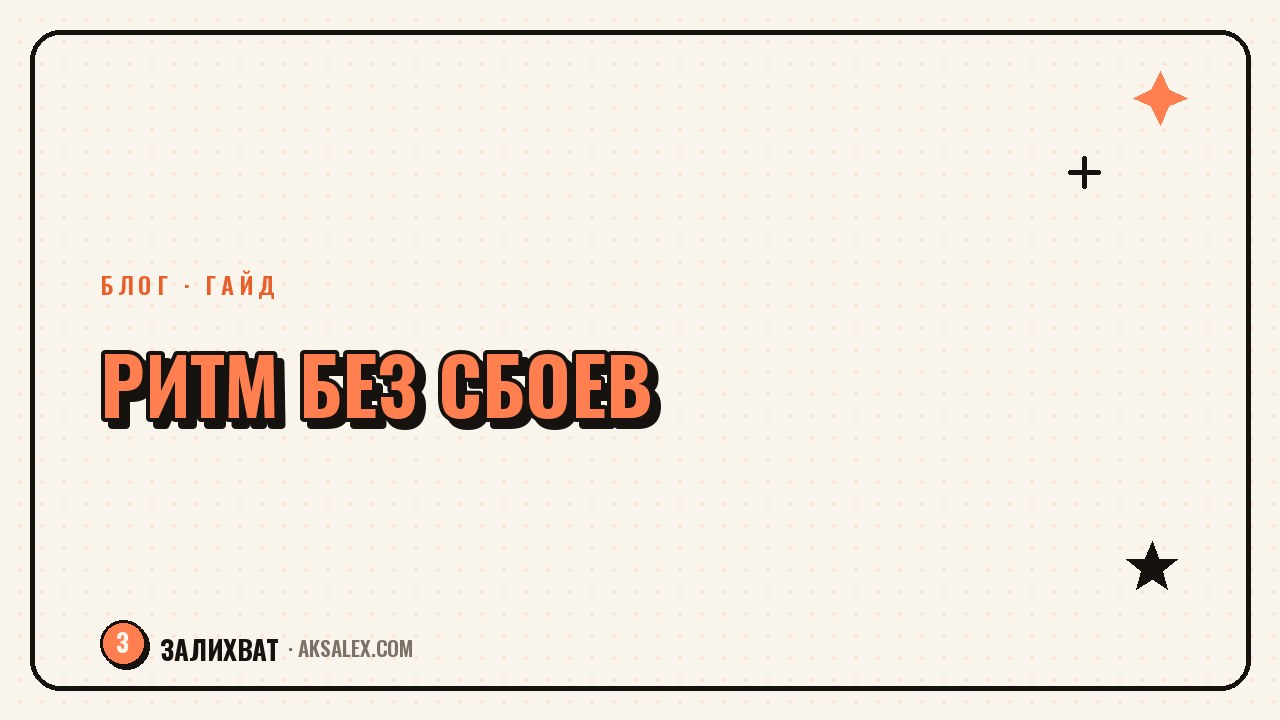
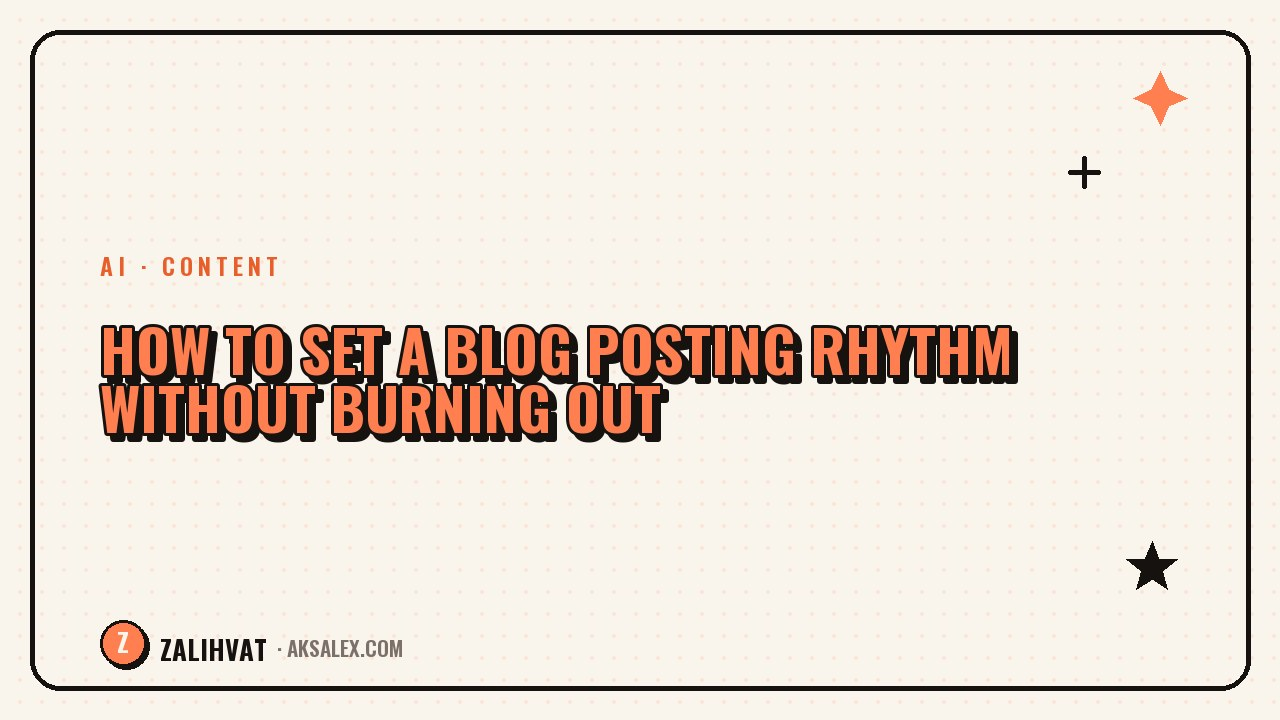
EN-обложки: перегенерил covers с английскими заголовками и брендом ZALIHVAT, чиню img src в EN-индексе; cover.py получил lang

Changed region(s): [[0.0625, 0.3361, 0.8125, 0.6111], [0.125, 0.8861, 0.3438, 0.9167]]

diff --git a/site/en/blog/index.html b/site/en/blog/index.html
@@ -113,7 +113,7 @@
 
   <div class="posts">
     <a class="post" href="/en/blog/kak-sdelat-seriyu-rolikov-na-odnu-temu/">
-      <img src="/blog/kak-sdelat-seriyu-rolikov-na-odnu-temu/cover.jpg" alt="How to make a series of videos on one topic">
+      <img src="/en/blog/kak-sdelat-seriyu-rolikov-na-odnu-temu/cover.jpg" alt="How to make a series of videos on one topic">
       <div class="pbody">
         <div class="pdate">September 5, 2026</div>
         <h2>How to make a series of videos on one topic</h2>
@@ -123,7 +123,7 @@
     </a>
 
     <a class="post" href="/en/blog/montazh-reels-na-telefone-prilozheniya/">
-      <img src="/blog/montazh-reels-na-telefone-prilozheniya/cover.jpg" alt="Editing Reels on a phone: apps and combos">
+      <img src="/en/blog/montazh-reels-na-telefone-prilozheniya/cover.jpg" alt="Editing Reels on a phone: apps and combos">
       <div class="pbody">
         <div class="pdate">September 5, 2026</div>
         <h2>Editing Reels on a phone: apps and combos</h2>
@@ -133,7 +133,7 @@
     </a>
 
     <a class="post" href="/en/blog/kak-nastroit-regulyarnost-i-ne-vygoret/">
-      <img src="/blog/kak-nastroit-regulyarnost-i-ne-vygoret/cover.jpg" alt="How to set up consistency in your blog without burning out">
+      <img src="/en/blog/kak-nastroit-regulyarnost-i-ne-vygoret/cover.jpg" alt="How to set up consistency in your blog without burning out">
       <div class="pbody">
         <div class="pdate">September 5, 2026</div>
         <h2>How to set up consistency in your blog without burning out</h2>
@@ -143,7 +143,7 @@
     </a>
 
     <a class="post" href="/en/blog/neyroseti-dlya-idey-kontenta-na-mesyac/">
-      <img src="/blog/neyroseti-dlya-idey-kontenta-na-mesyac/cover.jpg" alt="AI for a month's worth of content ideas">
+      <img src="/en/blog/neyroseti-dlya-idey-kontenta-na-mesyac/cover.jpg" alt="AI for a month's worth of content ideas">
       <div class="pbody">
         <div class="pdate">September 5, 2026</div>
         <h2>AI for a month's worth of content ideas</h2>
@@ -153,7 +153,7 @@
     </a>
 
     <a class="post" href="/en/blog/kak-pereupakovat-rolik-v-5-formatov/">
-      <img src="/blog/kak-pereupakovat-rolik-v-5-formatov/cover.jpg" alt="How to repackage one video into 5 formats">
+      <img src="/en/blog/kak-pereupakovat-rolik-v-5-formatov/cover.jpg" alt="How to repackage one video into 5 formats">
       <div class="pbody">
         <div class="pdate">September 5, 2026</div>
         <h2>How to repackage one video into 5 formats</h2>
@@ -163,7 +163,7 @@
     </a>
 
     <a class="post" href="/en/blog/storitelling-v-reels/">
-      <img src="/blog/storitelling-v-reels/cover.jpg" alt="Storytelling in Reels: how to hold attention">
+      <img src="/en/blog/storitelling-v-reels/cover.jpg" alt="Storytelling in Reels: how to hold attention">
       <div class="pbody">
         <div class="pdate">September 4, 2026</div>
         <h2>Storytelling in Reels: how to hold attention</h2>
@@ -173,7 +173,7 @@
     </a>
 
     <a class="post" href="/en/blog/kak-nahodit-trendy-cherez-neyroseti/">
-      <img src="/blog/kak-nahodit-trendy-cherez-neyroseti/cover.jpg" alt="How to find content trends using AI">
+      <img src="/en/blog/kak-nahodit-trendy-cherez-neyroseti/cover.jpg" alt="How to find content trends using AI">
       <div class="pbody">
         <div class="pdate">September 4, 2026</div>
         <h2>How to find content trends using AI</h2>
@@ -183,7 +183,7 @@
     </a>
 
     <a class="post" href="/en/blog/oshibki-novichkov-v-bloge/">
-      <img src="/blog/oshibki-novichkov-v-bloge/cover.jpg" alt="Beginner blogging mistakes and how to avoid them">
+      <img src="/en/blog/oshibki-novichkov-v-bloge/cover.jpg" alt="Beginner blogging mistakes and how to avoid them">
       <div class="pbody">
         <div class="pdate">September 4, 2026</div>
         <h2>Beginner blogging mistakes and how to avoid them</h2>
@@ -193,7 +193,7 @@
     </a>
 
     <a class="post" href="/en/blog/kak-vesti-blog-bez-lica-s-ii/">
-      <img src="/blog/kak-vesti-blog-bez-lica-s-ii/cover.jpg" alt="How to run a faceless blog with AI">
+      <img src="/en/blog/kak-vesti-blog-bez-lica-s-ii/cover.jpg" alt="How to run a faceless blog with AI">
       <div class="pbody">
         <div class="pdate">September 4, 2026</div>
         <h2>How to run a faceless blog with AI</h2>
@@ -203,7 +203,7 @@
     </a>
 
     <a class="post" href="/en/blog/neyroseti-dlya-oblozhek-i-prevyu/">
-      <img src="/blog/neyroseti-dlya-oblozhek-i-prevyu/cover.jpg" alt="AI for blog covers and previews">
+      <img src="/en/blog/neyroseti-dlya-oblozhek-i-prevyu/cover.jpg" alt="AI for blog covers and previews">
       <div class="pbody">
         <div class="pdate">September 4, 2026</div>
         <h2>AI for blog covers and previews</h2>
@@ -213,7 +213,7 @@
     </a>
 
     <a class="post" href="/en/blog/kak-sdelat-scenariy-reels-za-5-minut/">
-      <img src="/blog/kak-sdelat-scenariy-reels-za-5-minut/cover.jpg" alt="How to write a Reels script in 5 minutes">
+      <img src="/en/blog/kak-sdelat-scenariy-reels-za-5-minut/cover.jpg" alt="How to write a Reels script in 5 minutes">
       <div class="pbody">
         <div class="pdate">September 3, 2026</div>
         <h2>How to write a Reels script in 5 minutes</h2>
@@ -223,7 +223,7 @@
     </a>
 
     <a class="post" href="/en/blog/golosovye-neyroseti-dlya-ozvuchki-rolikov/">
-      <img src="/blog/golosovye-neyroseti-dlya-ozvuchki-rolikov/cover.jpg" alt="AI voice tools for video voiceovers">
+      <img src="/en/blog/golosovye-neyroseti-dlya-ozvuchki-rolikov/cover.jpg" alt="AI voice tools for video voiceovers">
       <div class="pbody">
         <div class="pdate">September 3, 2026</div>
         <h2>AI voice tools for video voiceovers</h2>
@@ -233,7 +233,7 @@
     </a>
 
     <a class="post" href="/en/blog/kak-pisat-virusnye-zagolovki-s-neyrosetyu/">
-      <img src="/blog/kak-pisat-virusnye-zagolovki-s-neyrosetyu/cover.jpg" alt="How to write viral headlines with AI">
+      <img src="/en/blog/kak-pisat-virusnye-zagolovki-s-neyrosetyu/cover.jpg" alt="How to write viral headlines with AI">
       <div class="pbody">
         <div class="pdate">September 3, 2026</div>
         <h2>How to write viral headlines with AI</h2>
@@ -243,7 +243,7 @@
     </a>
 
     <a class="post" href="/en/blog/ii-avatary-dlya-bloga/">
-      <img src="/blog/ii-avatary-dlya-bloga/cover.jpg" alt="AI avatars for your blog: overview and how to use them">
+      <img src="/en/blog/ii-avatary-dlya-bloga/cover.jpg" alt="AI avatars for your blog: overview and how to use them">
       <div class="pbody">
         <div class="pdate">September 3, 2026</div>
         <h2>AI avatars for your blog: overview and how to use them</h2>
@@ -253,7 +253,7 @@
     </a>
 
     <a class="post" href="/en/blog/kak-vyrasti-v-ohvatah-s-neyrosetyami/">
-      <img src="/blog/kak-vyrasti-v-ohvatah-s-neyrosetyami/cover.jpg" alt="How to grow your reach with AI">
+      <img src="/en/blog/kak-vyrasti-v-ohvatah-s-neyrosetyami/cover.jpg" alt="How to grow your reach with AI">
       <div class="pbody">
         <div class="pdate">September 3, 2026</div>
         <h2>How to grow your reach with AI</h2>
@@ -263,7 +263,7 @@
     </a>
 
     <a class="post" href="/en/blog/prompty-dlya-scenariev-reels/">
-      <img src="/blog/prompty-dlya-scenariev-reels/cover.jpg" alt="Prompts for Reels scripts: ready-made formulas">
+      <img src="/en/blog/prompty-dlya-scenariev-reels/cover.jpg" alt="Prompts for Reels scripts: ready-made formulas">
       <div class="pbody">
         <div class="pdate">September 2, 2026</div>
         <h2>Prompts for Reels scripts: ready-made formulas</h2>
@@ -273,7 +273,7 @@
     </a>
 
     <a class="post" href="/en/blog/kak-avtomatizirovat-posting-v-socsetyah/">
-      <img src="/blog/kak-avtomatizirovat-posting-v-socsetyah/cover.jpg" alt="How to automate posting on social media">
+      <img src="/en/blog/kak-avtomatizirovat-posting-v-socsetyah/cover.jpg" alt="How to automate posting on social media">
       <div class="pbody">
         <div class="pdate">September 2, 2026</div>
         <h2>How to automate posting on social media</h2>
@@ -283,7 +283,7 @@
     </a>
 
     <a class="post" href="/en/blog/neyroseti-dlya-montazha-video/">
-      <img src="/blog/neyroseti-dlya-montazha-video/cover.jpg" alt="AI tools for video editing: what beginners should pick">
+      <img src="/en/blog/neyroseti-dlya-montazha-video/cover.jpg" alt="AI tools for video editing: what beginners should pick">
       <div class="pbody">
         <div class="pdate">September 2, 2026</div>
         <h2>AI tools for video editing: what beginners should pick</h2>
@@ -293,7 +293,7 @@
     </a>
 
     <a class="post" href="/en/blog/kak-pridumat-huk-dlya-reels/">
-      <img src="/blog/kak-pridumat-huk-dlya-reels/cover.jpg" alt="How to come up with a hook for Reels that grabs attention">
+      <img src="/en/blog/kak-pridumat-huk-dlya-reels/cover.jpg" alt="How to come up with a hook for Reels that grabs attention">
       <div class="pbody">
         <div class="pdate">September 2, 2026</div>
         <h2>How to come up with a hook for Reels that grabs attention</h2>
@@ -303,7 +303,7 @@
     </a>
 
     <a class="post" href="/en/blog/kontent-plan-na-mesyac-s-ii/">
-      <img src="/blog/kontent-plan-na-mesyac-s-ii/cover.jpg" alt="A month's content plan in one hour with AI">
+      <img src="/en/blog/kontent-plan-na-mesyac-s-ii/cover.jpg" alt="A month's content plan in one hour with AI">
       <div class="pbody">
         <div class="pdate">September 2, 2026</div>
         <h2>A month's content plan in one hour with AI</h2>
@@ -313,7 +313,7 @@
     </a>
 
     <a class="post" href="/en/blog/kak-vybrat-nishu-dlya-bloga-s-neyrosetyami/">
-      <img src="/blog/kak-vybrat-nishu-dlya-bloga-s-neyrosetyami/cover.jpg" alt="How to choose a blog niche with AI">
+      <img src="/en/blog/kak-vybrat-nishu-dlya-bloga-s-neyrosetyami/cover.jpg" alt="How to choose a blog niche with AI">
       <div class="pbody">
         <div class="pdate">September 2, 2026</div>
         <h2>How to choose a blog niche with AI</h2>
@@ -324,7 +324,7 @@
 
 
     <a class="post" href="/en/blog/prompty-dlya-kontenta/">
-      <img src="/blog/prompty-dlya-kontenta/cover.jpg" alt="Prompts for content: how to write requests to AI">
+      <img src="/en/blog/prompty-dlya-kontenta/cover.jpg" alt="Prompts for content: how to write requests to AI">
       <div class="pbody">
         <div class="pdate">September 1, 2026</div>
         <h2>Prompts for content: how to write requests to AI</h2>
@@ -334,7 +334,7 @@
     </a>
 
     <a class="post" href="/en/blog/idei-dlya-reels-s-neyrosetyami/">
-      <img src="/blog/idei-dlya-reels-s-neyrosetyami/cover.jpg" alt="How to come up with Reels ideas using AI">
+      <img src="/en/blog/idei-dlya-reels-s-neyrosetyami/cover.jpg" alt="How to come up with Reels ideas using AI">
       <div class="pbody">
         <div class="pdate">September 1, 2026</div>
         <h2>How to come up with Reels ideas using AI</h2>
@@ -344,7 +344,7 @@
     </a>
 
     <a class="post" href="/en/blog/kak-vesti-blog-s-neyrosetyami/">
-      <img src="/blog/kak-vesti-blog-s-neyrosetyami/cover.jpg" alt="How to run a blog with AI">
+      <img src="/en/blog/kak-vesti-blog-s-neyrosetyami/cover.jpg" alt="How to run a blog with AI">
       <div class="pbody">
         <div class="pdate">September 1, 2026</div>
         <h2>How to run a blog with AI: a step-by-step guide</h2>

diff --git a/autopilot/cover.py b/autopilot/cover.py
@@ -63,9 +63,11 @@ def _wrap(draw, text, font, maxw):
         lines.append(cur)
     return lines
 
-def make_cover(title, tag, out_jpg):
+def make_cover(title, tag, out_jpg, lang="ru"):
     title = (title or "").upper().strip()
-    tag = (tag or "Нейросети · блог").upper().strip()
+    tag = (tag or ("AI · BLOG" if lang == "en" else "Нейросети · блог")).upper().strip()
+    brand = "ZALIHVAT" if lang == "en" else "ЗАЛИХВАТ"
+    glyph = "Z" if lang == "en" else "З"
     img = Image.new("RGB", (W, H), PAPER)
     d = ImageDraw.Draw(img)
 
@@ -120,13 +122,13 @@ def make_cover(title, tag, out_jpg):
     d.ellipse([bx + 3, by + 3, bx + 49, by + 49], fill=INK)         # тень
     d.ellipse([bx, by, bx + 46, by + 46], fill=CORAL, outline=INK, width=3)
     zf = _font(26, 700)
-    zb = d.textbbox((0, 0), "З", font=zf)
+    zb = d.textbbox((0, 0), glyph, font=zf)
     d.text((bx + 23 - (zb[2] - zb[0]) / 2, by + 23 - (zb[3] - zb[1]) / 2 - zb[1]),
-           "З", font=zf, fill=PAPER)
+           glyph, font=zf, fill=PAPER)
     nf = _font(27, 700)
     nx = bx + 60
-    d.text((nx, by + 8), "ЗАЛИХВАТ", font=nf, fill=INK)
-    nw = d.textlength("ЗАЛИХВАТ", font=nf)
+    d.text((nx, by + 8), brand, font=nf, fill=INK)
+    nw = d.textlength(brand, font=nf)
     d.text((nx + nw + 10, by + 11), "· AKSALEX.COM", font=_font(21, 600), fill=MUTED)
 
     img.save(out_jpg, "JPEG", quality=88, optimize=True)
